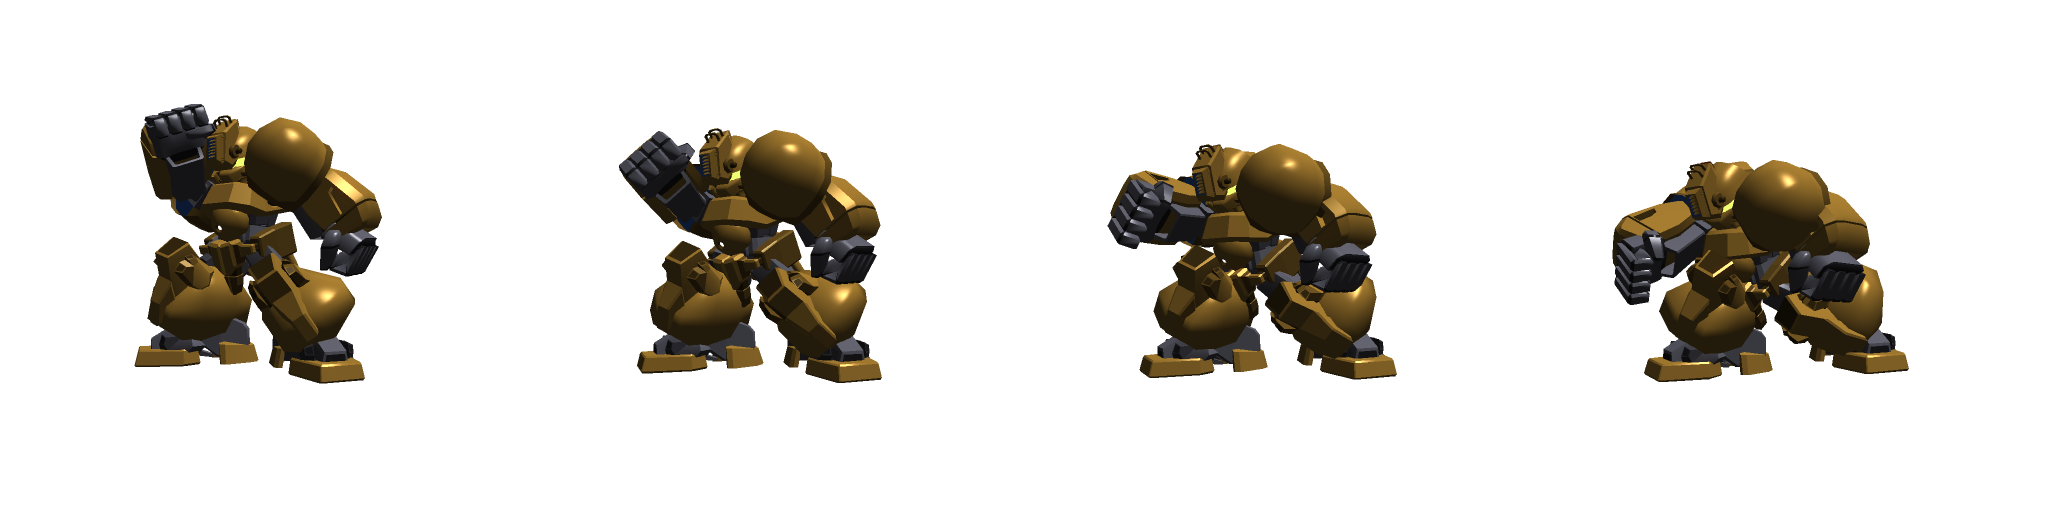
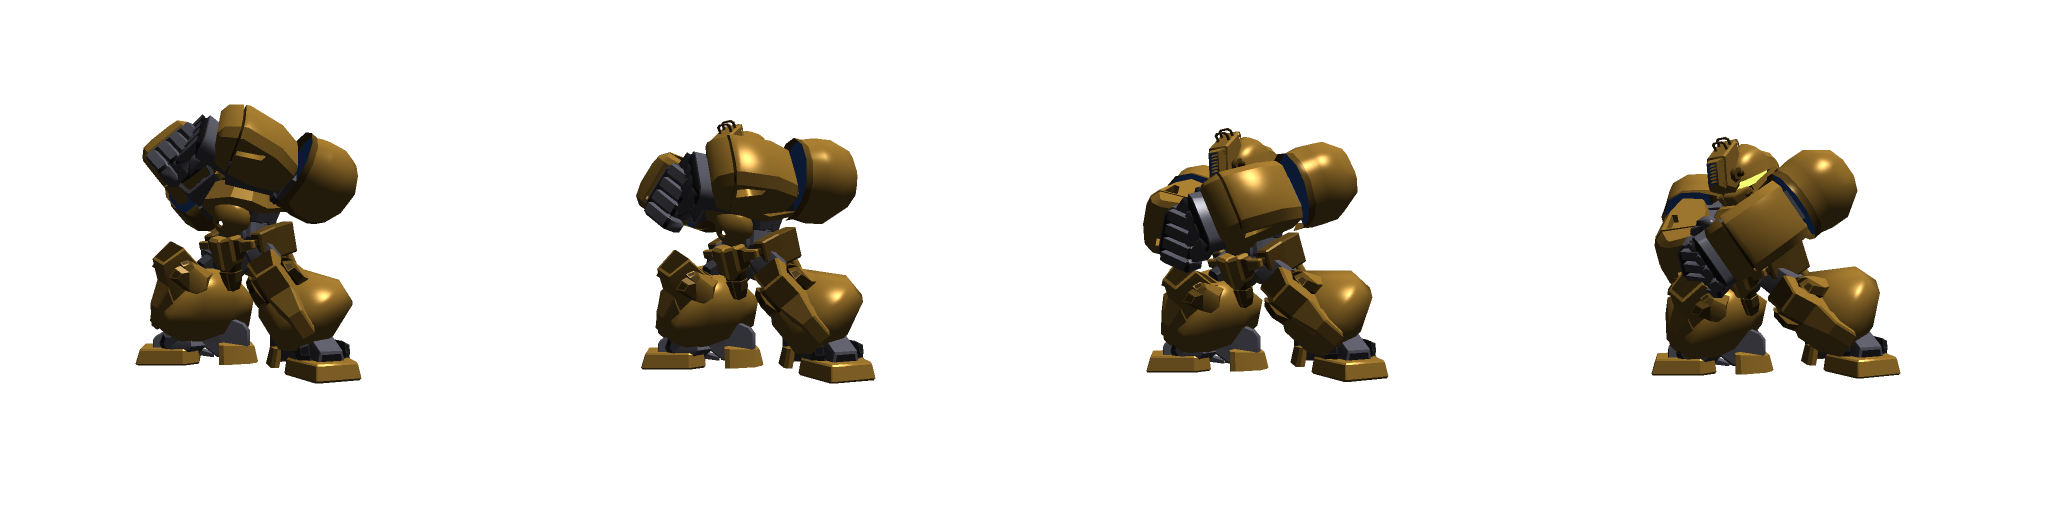
アームハンマーを両手打ちにした

diff --git a/src/game-object/armdozer/neo-landozer/animation/arm-hammer.js b/src/game-object/armdozer/neo-landozer/animation/arm-hammer.js
@@ -27,7 +27,7 @@ export function armHammer(model: NeoLandozerModel): Animate {
       .to({frame: 1}, 150)
     ),
     tween(model.position, t => t
-      .to({x: '-70'}, 150)
+      .to({x: '-100'}, 150)
     )
   ).chain(
     delay(500)
@@ -41,7 +41,7 @@ export function armHammer(model: NeoLandozerModel): Animate {
       .to({frame: 1}, 300)
     ),
     tween(model.position, t => t
-      .to({x: '+70'}, 300)
+      .to({x: '+100'}, 300)
     ),
   ).chain(
     process(() => {
